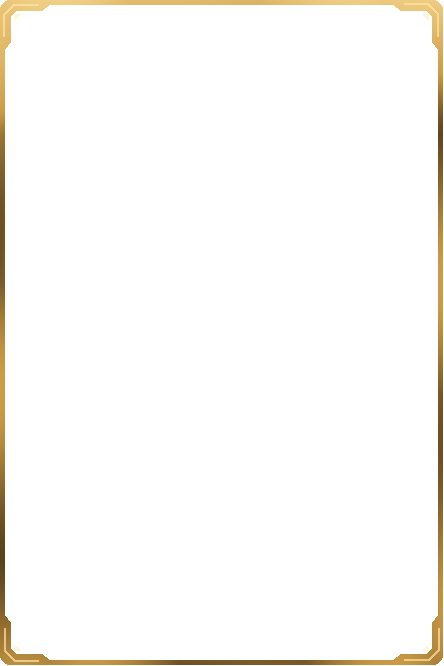
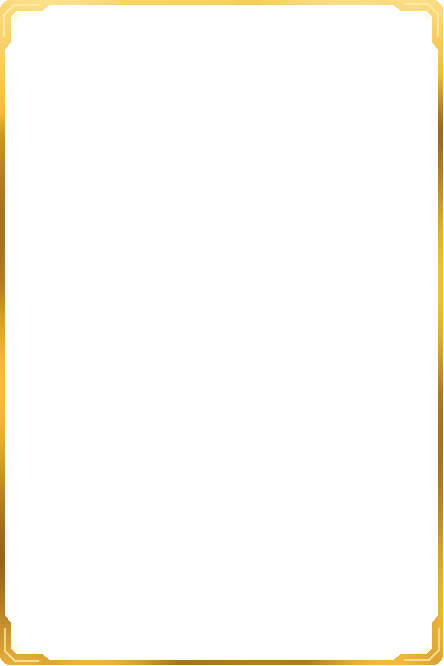
Make the golems epic and brighten legendary frames

Changed region(s): [[0.0, 0.03, 1.0, 1.0], [0.4685, 0.0, 0.6149, 0.03]]

diff --git a/docs/app.js b/docs/app.js
@@ -1,26 +1,26 @@
-import { deckEditor, deckListScreen, factionPicker } from './ui/deck-builder.js?v=rarity-frames-1';
+import { deckEditor, deckListScreen, factionPicker } from './ui/deck-builder.js?v=epic-golems-1';
 import { createDeckStorage } from './ui/deck-storage.js?v=step-16';
 import { bindCardPlacement } from './card-placement.js?v=opponent-reveal-1';
-import { animateCoin, animateHandTurn, animateLifeLoss, presentJournalEvent } from './card-motion.js?v=rarity-frames-1';
+import { animateCoin, animateHandTurn, animateLifeLoss, presentJournalEvent } from './card-motion.js?v=epic-golems-1';
 import { clearParticles } from './particles.js?v=step-14';
-import { playJournal } from './turn-playback.js?v=rarity-frames-1';
-import { BOT_DELAY_MS, chooseBotTurn } from './game/bot.js?v=rarity-frames-1';
-import { placementSide } from './game/board.js?v=rarity-frames-1';
-import { FACTIONS } from './game/cards.js?v=rarity-frames-1';
-import { inspectDeck } from './game/decks.js?v=rarity-frames-1';
-import { applyAction, createDeckMatch } from './game/match.js?v=rarity-frames-1';
+import { playJournal } from './turn-playback.js?v=epic-golems-1';
+import { BOT_DELAY_MS, chooseBotTurn } from './game/bot.js?v=epic-golems-1';
+import { placementSide } from './game/board.js?v=epic-golems-1';
+import { FACTIONS } from './game/cards.js?v=epic-golems-1';
+import { inspectDeck } from './game/decks.js?v=epic-golems-1';
+import { applyAction, createDeckMatch } from './game/match.js?v=epic-golems-1';
 import { element, iconButton } from './ui/dom.js?v=opponent-reveal-1';
-import { preview, showCard } from './ui/cards.js?v=rarity-frames-1';
-import { createBattlefield } from './ui/field.js?v=rarity-frames-1';
-import { mulliganScreen, updatePlacementSelection } from './ui/hand.js?v=rarity-frames-1';
-import { createMatchMenu, describeBotAction, eventText } from './ui/menu.js?v=rarity-frames-1';
-import { catalogScreen, finishedScreen, leaderScreen } from './ui/screens.js?v=rarity-frames-1';
-import { createSettings } from './ui/settings.js?v=rarity-frames-1';
+import { preview, showCard } from './ui/cards.js?v=epic-golems-1';
+import { createBattlefield } from './ui/field.js?v=epic-golems-1';
+import { mulliganScreen, updatePlacementSelection } from './ui/hand.js?v=epic-golems-1';
+import { createMatchMenu, describeBotAction, eventText } from './ui/menu.js?v=epic-golems-1';
+import { catalogScreen, finishedScreen, leaderScreen } from './ui/screens.js?v=epic-golems-1';
+import { createSettings } from './ui/settings.js?v=epic-golems-1';
 
 import { createFactionStats } from './ui/stats.js?v=step-11';
-import { createRewardProgress, REWARD_STORAGE_KEY } from './game/rewards.js?v=rarity-frames-1';
-import { createRewardBook } from './ui/reward-book.js?v=rarity-frames-1';
-import { createBoosterOpening, createBoosterShop, economyDialog } from './ui/booster-screens.js?v=rarity-frames-1';
+import { createRewardProgress, REWARD_STORAGE_KEY } from './game/rewards.js?v=epic-golems-1';
+import { createRewardBook } from './ui/reward-book.js?v=epic-golems-1';
+import { createBoosterOpening, createBoosterShop, economyDialog } from './ui/booster-screens.js?v=epic-golems-1';
 import { createResourceBar } from './ui/resources.js?v=1';
 
 const app = document.querySelector('#app');

diff --git a/docs/game/cards.js b/docs/game/cards.js
@@ -303,18 +303,18 @@ export const NEUTRAL_CARDS = Object.freeze([
         startTurnPulse: ability([{ action: 'scatter', amount: 3, visual: 'lightning' }]),
         startTurn: ability([{ action: 'break', target: self }, { action: 'scatter', amount: 1, visual: 'lightning' }]),
       }],
-    ['old-golem', 'Старый голем', 'gold', 9, 9, 'Силовой щит. После розыгрыша тобой любого Голема, включая эту карту, усиливается на 1, пока находится на поле.', {
+    ['old-golem', 'Старый голем', 'epic', 9, 9, 'Силовой щит. После розыгрыша тобой любого Голема, включая эту карту, усиливается на 1, пока находится на поле.', {
       art: 'old-golem.webp?v=force-sphere-1', categories: ['Голем'], shield: true, keywords: ['Силовой щит', 'Усиление'],
       fieldEvents: { play: { friendly: true, category: 'Голем', ability: ability([action('boost', self, 1)]) } },
     }],
-    ['fire-golem', 'Огненный голем', 'gold', 9, 5,
+    ['fire-golem', 'Огненный голем', 'epic', 9, 5,
       'При розыгрыше: нанеси 4 урона выбранному другому отряду. Урон увеличивается на 1 за каждого Голема, которого ты разыграл ранее в этом матче.', {
         art: 'fire-golem.webp', categories: ['Голем'], keywords: ['Урон'],
         deploy: ability([action('damage', chosen('victim'), fireGolemDamage)],
           [choice('victim', { scope: 'field', type: 'unit', exclude: 'source' },
             'Выбери отряд для урона.', { kind: 'damage', amount: fireGolemDamage })]),
     }],
-    ['sleeping-mountain', 'Спящая гора', 'gold', 9, 17,
+    ['sleeping-mountain', 'Спящая гора', 'epic', 9, 17,
       'При розыгрыше: нанеси себе 10 урона. Урон снижается на 1 за каждого Голема, которого ты разыграл ранее в этом матче, до 0.', {
         art: 'sleeping-mountain.webp', categories: ['Голем'], keywords: ['Урон'],
         deploy: ability([action('damage', self, mountainDamage)]),

diff --git a/tests/catalog.test.js b/tests/catalog.test.js
@@ -14,8 +14,8 @@ test('catalog searches both name and card text, ignoring case and ё spelling', 
   assert.deepEqual(ids({ query: 'неттакойкарты' }), []);
 });
 
-test('all 26 gold cards are included and catalog filters combine across factions', () => {
-  assert.equal(ids({ rarity: 'gold' }).length, 26);
+test('all 23 gold cards are included and catalog filters combine across factions', () => {
+  assert.equal(ids({ rarity: 'gold' }).length, 23);
   assert.deepEqual(ids({ faction: 'neutral', rarity: 'gold', type: 'artifact', category: 'Пустота', provision: '19' }),
     ['falura']);
   assert.deepEqual(ids({ faction: 'growth', rarity: 'gold', type: 'artifact', category: 'Пустота', provision: '19' }), []);
@@ -25,7 +25,7 @@ test('all 26 gold cards are included and catalog filters combine across factions
   assert.equal(cards.find(({ id }) => id === 'world-gates').name, 'Врата Миров');
   assert.equal(cards.find(({ id }) => id === 'forgotten-gates').name, 'Врата Забвения');
   assert.deepEqual(ids({ faction: 'neutral', rarity: 'bronze', type: 'artifact', category: 'Кристалл', provision: '5' }), ['storm-eye']);
-  assert.deepEqual(ids({ faction: 'neutral', rarity: 'gold', type: 'unit', category: 'Голем', provision: '9' }),
+  assert.deepEqual(ids({ faction: 'neutral', rarity: 'epic', type: 'unit', category: 'Голем', provision: '9' }),
     ['fire-golem', 'sleeping-mountain', 'old-golem']);
 });
 

diff --git a/docs/ui/field.js b/docs/ui/field.js
@@ -1,11 +1,11 @@
-import { createCard, opponent, statusCount } from '../game/board.js?v=rarity-frames-1';
+import { createCard, opponent, statusCount } from '../game/board.js?v=epic-golems-1';
 import { insertionPoint } from '../card-placement.js?v=opponent-reveal-1';
 import { button, element, iconButton, sideLabel } from './dom.js?v=opponent-reveal-1';
-import { ROWS, ROW_LABELS } from '../game/cards.js?v=rarity-frames-1';
-import { cardArt, cardButton, cardInspection, decorateCard, showCard } from './cards.js?v=rarity-frames-1';
-import { playerHand } from './hand.js?v=rarity-frames-1';
-import { availableOrders, canUseLeader, leaderCooldown, rowArmor, ROW_EFFECTS } from '../game/effects.js?v=rarity-frames-1';
-import { HAND_LIMIT, ROW_LIMIT, canEndTurn, canPass, rowScore, totalScore } from '../game/match.js?v=rarity-frames-1';
+import { ROWS, ROW_LABELS } from '../game/cards.js?v=epic-golems-1';
+import { cardArt, cardButton, cardInspection, decorateCard, showCard } from './cards.js?v=epic-golems-1';
+import { playerHand } from './hand.js?v=epic-golems-1';
+import { availableOrders, canUseLeader, leaderCooldown, rowArmor, ROW_EFFECTS } from '../game/effects.js?v=epic-golems-1';
+import { HAND_LIMIT, ROW_LIMIT, canEndTurn, canPass, rowScore, totalScore } from '../game/match.js?v=epic-golems-1';
 
 import { orderBadge } from './stat-badges.js?v=opponent-reveal-1';
 

diff --git a/docs/ui/screens.js b/docs/ui/screens.js
@@ -1,12 +1,12 @@
 import { button, element, selectField } from './dom.js?v=opponent-reveal-1';
-import { createCard } from '../game/board.js?v=rarity-frames-1';
-import { CARD_TYPES, FACTIONS, NEUTRAL, NEUTRAL_CARDS, RARITY_LABELS } from '../game/cards.js?v=rarity-frames-1';
-import { addCardCrop, cardButton, showCard } from './cards.js?v=rarity-frames-1';
-import { logView, roundText } from './menu.js?v=rarity-frames-1';
+import { createCard } from '../game/board.js?v=epic-golems-1';
+import { CARD_TYPES, FACTIONS, NEUTRAL, NEUTRAL_CARDS, RARITY_LABELS } from '../game/cards.js?v=epic-golems-1';
+import { addCardCrop, cardButton, showCard } from './cards.js?v=epic-golems-1';
+import { logView, roundText } from './menu.js?v=epic-golems-1';
 import { availabilityOptions, filterCatalog } from './catalog-cards.js?v=collection-2';
 import { factionFilters } from './faction-filters.js?v=1';
-import { copyLimit } from '../game/decks.js?v=rarity-frames-1';
-import { craftPrice, dismantleValue } from '../game/rewards.js?v=rarity-frames-1';
+import { copyLimit } from '../game/decks.js?v=epic-golems-1';
+import { craftPrice, dismantleValue } from '../game/rewards.js?v=epic-golems-1';
 import { resourceIcon } from './resource-icon.js?v=1';
 
 const catalogCards = [...NEUTRAL_CARDS, ...Object.values(FACTIONS).flatMap(({ pool }) => pool)];

diff --git a/docs/game/match.js b/docs/game/match.js
@@ -1,9 +1,9 @@
-import { inspectDeck } from './decks.js?v=rarity-frames-1';
-import { FACTIONS, FIRST_SIGNAL, ROWS } from './cards.js?v=rarity-frames-1';
-import { announcePlay, availableRows, cardType, createCard, discardCard, HAND_LIMIT, opponent, placementSide, placeCards, playDestination, spendResilience, statusCount, takeCards } from './board.js?v=rarity-frames-1';
-import { availableOrders, canCast, canUseLeader, enqueueCardEffect, enqueueEndTurn, enqueueStartTurn, orderAbility, playTiming, runEffect } from './effects.js?v=rarity-frames-1';
+import { inspectDeck } from './decks.js?v=epic-golems-1';
+import { FACTIONS, FIRST_SIGNAL, ROWS } from './cards.js?v=epic-golems-1';
+import { announcePlay, availableRows, cardType, createCard, discardCard, HAND_LIMIT, opponent, placementSide, placeCards, playDestination, spendResilience, statusCount, takeCards } from './board.js?v=epic-golems-1';
+import { availableOrders, canCast, canUseLeader, enqueueCardEffect, enqueueEndTurn, enqueueStartTurn, orderAbility, playTiming, runEffect } from './effects.js?v=epic-golems-1';
 
-export { availableRows, HAND_LIMIT, ROW_LIMIT } from './board.js?v=rarity-frames-1';
+export { availableRows, HAND_LIMIT, ROW_LIMIT } from './board.js?v=epic-golems-1';
 
 const SIDES = ['human', 'bot'];
 const STARTING_LIVES = 2;

diff --git a/docs/game/bot.js b/docs/game/bot.js
@@ -1,9 +1,9 @@
-import { ROWS } from './cards.js?v=rarity-frames-1';
-import { cardType, findUnit, isUnit, neighbors, statusCount, units } from './board.js?v=rarity-frames-1';
-import { availableOrders, canUseLeader, deckCardValue, destructionSwing, effectSwing, infectionGain, rowArmor, rowDamage, rowEffectValue } from './effects.js?v=rarity-frames-1';
-import { HAND_LIMIT, ROUND_DRAW, ROW_LIMIT, playableCards, totalScore } from './match.js?v=rarity-frames-1';
+import { ROWS } from './cards.js?v=epic-golems-1';
+import { cardType, findUnit, isUnit, neighbors, statusCount, units } from './board.js?v=epic-golems-1';
+import { availableOrders, canUseLeader, deckCardValue, destructionSwing, effectSwing, infectionGain, rowArmor, rowDamage, rowEffectValue } from './effects.js?v=epic-golems-1';
+import { HAND_LIMIT, ROUND_DRAW, ROW_LIMIT, playableCards, totalScore } from './match.js?v=epic-golems-1';
 
-import { chooseStrategicTarget, chooseStrategicTurn } from './bot-strategy.js?v=rarity-frames-1';
+import { chooseStrategicTarget, chooseStrategicTurn } from './bot-strategy.js?v=epic-golems-1';
 
 export const BOT_RULES = Object.freeze({ passLead: 12, cardDeficitLimit: 1 });
 export const BOT_DELAY_MS = 700;

diff --git a/docs/game/bot-strategy.js b/docs/game/bot-strategy.js
@@ -1,8 +1,8 @@
-import { compareRollouts } from './bot-rollouts.js?v=rarity-frames-1';
-import { ROWS } from './cards.js?v=rarity-frames-1';
-import { cardType, opponent, placementSide, units } from './board.js?v=rarity-frames-1';
-import { availableOrders, canUseLeader, deckCardValue, destructionRolls, destructionSwing, rowArmor, rowEffectValue } from './effects.js?v=rarity-frames-1';
-import { HAND_LIMIT, ROUND_DRAW, ROW_LIMIT, applyAction, playableCards, totalScore } from './match.js?v=rarity-frames-1';
+import { compareRollouts } from './bot-rollouts.js?v=epic-golems-1';
+import { ROWS } from './cards.js?v=epic-golems-1';
+import { cardType, opponent, placementSide, units } from './board.js?v=epic-golems-1';
+import { availableOrders, canUseLeader, deckCardValue, destructionRolls, destructionSwing, rowArmor, rowEffectValue } from './effects.js?v=epic-golems-1';
+import { HAND_LIMIT, ROUND_DRAW, ROW_LIMIT, applyAction, playableCards, totalScore } from './match.js?v=epic-golems-1';
 
 const PASS = { type: 'pass' };
 const END = { type: 'end-turn' };

diff --git a/docs/game/bot-rollouts.js b/docs/game/bot-rollouts.js
@@ -1,8 +1,8 @@
-import { FACTIONS, ROWS } from './cards.js?v=rarity-frames-1';
-import { createCard, isUnit, opponent, placementSide, ROW_LIMIT } from './board.js?v=rarity-frames-1';
-import { collection, copyLimit } from './decks.js?v=rarity-frames-1';
-import { applyAction, canPass, confirmMulligan, mulliganLimit, playableCards, totalScore } from './match.js?v=rarity-frames-1';
-import { availableOrders, canUseLeader, effectSwing, infectionGain, rowArmor } from './effects.js?v=rarity-frames-1';
+import { FACTIONS, ROWS } from './cards.js?v=epic-golems-1';
+import { createCard, isUnit, opponent, placementSide, ROW_LIMIT } from './board.js?v=epic-golems-1';
+import { collection, copyLimit } from './decks.js?v=epic-golems-1';
+import { applyAction, canPass, confirmMulligan, mulliganLimit, playableCards, totalScore } from './match.js?v=epic-golems-1';
+import { availableOrders, canUseLeader, effectSwing, infectionGain, rowArmor } from './effects.js?v=epic-golems-1';
 
 const PASS = { type: 'pass' };
 const END = { type: 'end-turn' };

diff --git a/docs/ui/deck-builder.js b/docs/ui/deck-builder.js
@@ -1,7 +1,7 @@
-import { FACTIONS, NEUTRAL, CARD_TYPES, RARITY_LABELS } from '../game/cards.js?v=rarity-frames-1';
-import { createCard } from '../game/board.js?v=rarity-frames-1';
-import { collection, copyLimit, inspectDeck, MIN_CARDS, MIN_UNITS, PRESETS } from '../game/decks.js?v=rarity-frames-1';
-import { addCardCrop, cardButton } from './cards.js?v=rarity-frames-1';
+import { FACTIONS, NEUTRAL, CARD_TYPES, RARITY_LABELS } from '../game/cards.js?v=epic-golems-1';
+import { createCard } from '../game/board.js?v=epic-golems-1';
+import { collection, copyLimit, inspectDeck, MIN_CARDS, MIN_UNITS, PRESETS } from '../game/decks.js?v=epic-golems-1';
+import { addCardCrop, cardButton } from './cards.js?v=epic-golems-1';
 import { button, element, selectField } from './dom.js?v=opponent-reveal-1';
 import { factionFilters } from './faction-filters.js?v=1';
 import { availabilityOptions, matchesAvailability } from './catalog-cards.js?v=collection-2';

diff --git a/docs/ui/hand.js b/docs/ui/hand.js
@@ -1,7 +1,7 @@
 import { button, element } from './dom.js?v=opponent-reveal-1';
-import { cardType, placementSide } from '../game/board.js?v=rarity-frames-1';
-import { canPlayCard, confirmMulligan, mulliganRemaining, replaceMulliganCard } from '../game/match.js?v=rarity-frames-1';
-import { cardButton, showCard } from './cards.js?v=rarity-frames-1';
+import { cardType, placementSide } from '../game/board.js?v=epic-golems-1';
+import { canPlayCard, confirmMulligan, mulliganRemaining, replaceMulliganCard } from '../game/match.js?v=epic-golems-1';
+import { cardButton, showCard } from './cards.js?v=epic-golems-1';
 
 export function updatePlacementSelection(screen, match, selectedCardId) {
   const card = match.players.human.hand.find(({ id }) => id === selectedCardId);

diff --git a/docs/game/effects.js b/docs/game/effects.js
@@ -1,10 +1,10 @@
 import { emit } from './events.js?v=golem-trio-1';
-import { ROWS, ROW_LABELS } from './cards.js?v=rarity-frames-1';
+import { ROWS, ROW_LABELS } from './cards.js?v=epic-golems-1';
 import {
   announcePlay, applyStatus, availableRows, basePower, boost, cardType, consume, createCard, damage, findUnit,
   changeBasePower, findInPiles, heal, isUnit, neighbors, opponent, placementSide, placeCards, playDestination, removeUnit, ROW_LIMIT,
   setRowEffect, spawnCards, statusCount, statusEndTurn, takeCards, tickInfection, units,
-} from './board.js?v=rarity-frames-1';
+} from './board.js?v=epic-golems-1';
 
 function reference(match, job, key = 'source') {
   if (key === 'source' && job.piles) return findInPiles(match, job.side, job.sourceId, job.piles);
